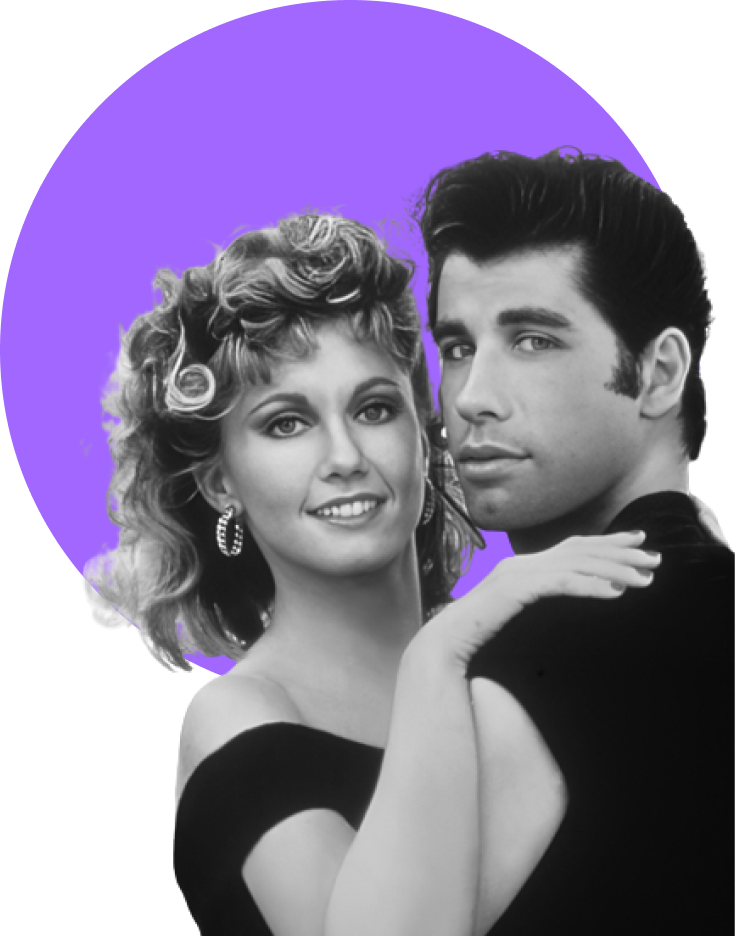
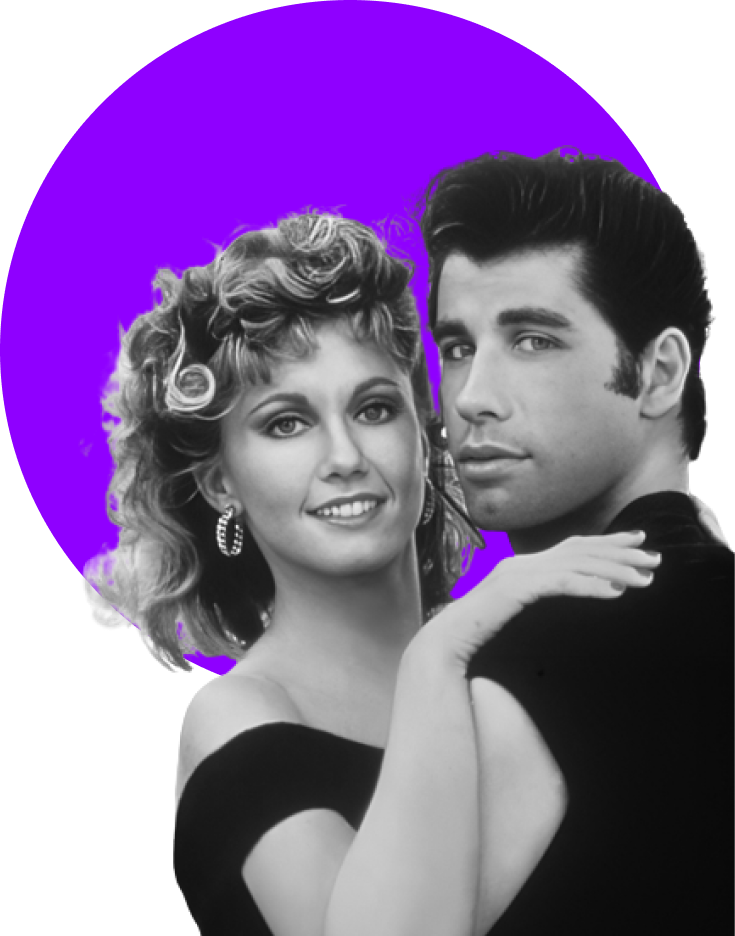
mudancas scroll

Changed region(s): [[0.0, 0.0, 0.898, 0.6197], [0.5986, 0.5577, 0.7184, 0.6506], [0.2395, 0.6506, 0.3293, 0.7436]]

diff --git a/docs/sass/_config.scss b/docs/sass/_config.scss
@@ -75,8 +75,8 @@ $height-option-bar: 100px;
     --text-color-80: #000000cc;
     --link-color: #45CFE1;
 
-    --second-color: #6ba5f2;
-    --second-color-50: #6ba5f280;
+    --second-color: #4925B0;
+    --second-color-50: #4a25b085;
     --third-color: #00109d;
 
     --sect-par-backg-color: #000;
@@ -92,21 +92,20 @@ $height-option-bar: 100px;
 // ===================================================
 // Darkmode
 .darkmode:root {
-    --backg-color: #121111;
+    --backg-color: #000000;
     --text-color: #FEFCF3;
     --text-color-50: #FFFFFF80;
     --text-color-80: #FFFFFFcc;
     
-    --second-color: #A167FF;
-    --second-color-50: #A167FF80;
+    --second-color: #8F00FF;
+    --second-color-50: #9000ff74;
     --third-color: #C6A4FF;
     
     // Formulário - login e cadastro
-    --backg-form: #242424;
-    --backg-camada-2: #121111;
+    --backg-form: #000000;
+    --backg-camada-2: #000000;
 }
 // ===================================================
-
 
 
 // ===================================================

diff --git a/docs/css/home.css b/docs/css/home.css
@@ -45,8 +45,8 @@
   --text-color-50: #00000080;
   --text-color-80: #000000cc;
   --link-color: #45CFE1;
-  --second-color: #6ba5f2;
-  --second-color-50: #6ba5f280;
+  --second-color: #4925B0;
+  --second-color-50: #4a25b085;
   --third-color: #00109d;
   --sect-par-backg-color: #000;
   --sect-par-text-color: #fff;
@@ -56,15 +56,15 @@
 }
 
 .darkmode:root {
-  --backg-color: #121111;
+  --backg-color: #000000;
   --text-color: #FEFCF3;
   --text-color-50: #FFFFFF80;
   --text-color-80: #FFFFFFcc;
-  --second-color: #A167FF;
-  --second-color-50: #A167FF80;
+  --second-color: #8F00FF;
+  --second-color-50: #9000ff74;
   --third-color: #C6A4FF;
-  --backg-form: #242424;
-  --backg-camada-2: #121111;
+  --backg-form: #000000;
+  --backg-camada-2: #000000;
 }
 
 section {
@@ -88,6 +88,9 @@ section.section1 .sandy-danny {
   bottom: 0;
   right: 0;
   z-index: -1;
+}
+section.section1 #SandyDanny.scrollHide {
+  opacity: 0;
 }
 section.section2 {
   min-height: 820px;

diff --git a/docs/css/box-content.css b/docs/css/box-content.css
@@ -45,8 +45,8 @@
   --text-color-50: #00000080;
   --text-color-80: #000000cc;
   --link-color: #45CFE1;
-  --second-color: #6ba5f2;
-  --second-color-50: #6ba5f280;
+  --second-color: #4925B0;
+  --second-color-50: #4a25b085;
   --third-color: #00109d;
   --sect-par-backg-color: #000;
   --sect-par-text-color: #fff;
@@ -56,15 +56,15 @@
 }
 
 .darkmode:root {
-  --backg-color: #121111;
+  --backg-color: #000000;
   --text-color: #FEFCF3;
   --text-color-50: #FFFFFF80;
   --text-color-80: #FFFFFFcc;
-  --second-color: #A167FF;
-  --second-color-50: #A167FF80;
+  --second-color: #8F00FF;
+  --second-color-50: #9000ff74;
   --third-color: #C6A4FF;
-  --backg-form: #242424;
-  --backg-camada-2: #121111;
+  --backg-form: #000000;
+  --backg-camada-2: #000000;
 }
 
 .wrapper-content-main .padding {

diff --git a/docs/css/form.css b/docs/css/form.css
@@ -45,8 +45,8 @@
   --text-color-50: #00000080;
   --text-color-80: #000000cc;
   --link-color: #45CFE1;
-  --second-color: #6ba5f2;
-  --second-color-50: #6ba5f280;
+  --second-color: #4925B0;
+  --second-color-50: #4a25b085;
   --third-color: #00109d;
   --sect-par-backg-color: #000;
   --sect-par-text-color: #fff;
@@ -56,15 +56,15 @@
 }
 
 .darkmode:root {
-  --backg-color: #121111;
+  --backg-color: #000000;
   --text-color: #FEFCF3;
   --text-color-50: #FFFFFF80;
   --text-color-80: #FFFFFFcc;
-  --second-color: #A167FF;
-  --second-color-50: #A167FF80;
+  --second-color: #8F00FF;
+  --second-color-50: #9000ff74;
   --third-color: #C6A4FF;
-  --backg-form: #242424;
-  --backg-camada-2: #121111;
+  --backg-form: #000000;
+  --backg-camada-2: #000000;
 }
 
 /* DIV - ESQUERDA */

diff --git a/docs/css/carrossel.css b/docs/css/carrossel.css
@@ -46,8 +46,8 @@
   --text-color-50: #00000080;
   --text-color-80: #000000cc;
   --link-color: #45CFE1;
-  --second-color: #6ba5f2;
-  --second-color-50: #6ba5f280;
+  --second-color: #4925B0;
+  --second-color-50: #4a25b085;
   --third-color: #00109d;
   --sect-par-backg-color: #000;
   --sect-par-text-color: #fff;
@@ -57,15 +57,15 @@
 }
 
 .darkmode:root {
-  --backg-color: #121111;
+  --backg-color: #000000;
   --text-color: #FEFCF3;
   --text-color-50: #FFFFFF80;
   --text-color-80: #FFFFFFcc;
-  --second-color: #A167FF;
-  --second-color-50: #A167FF80;
+  --second-color: #8F00FF;
+  --second-color-50: #9000ff74;
   --third-color: #C6A4FF;
-  --backg-form: #242424;
-  --backg-camada-2: #121111;
+  --backg-form: #000000;
+  --backg-camada-2: #000000;
 }
 
 .carrossel-musica {

diff --git a/docs/css/navbar.css b/docs/css/navbar.css
@@ -45,8 +45,8 @@
   --text-color-50: #00000080;
   --text-color-80: #000000cc;
   --link-color: #45CFE1;
-  --second-color: #6ba5f2;
-  --second-color-50: #6ba5f280;
+  --second-color: #4925B0;
+  --second-color-50: #4a25b085;
   --third-color: #00109d;
   --sect-par-backg-color: #000;
   --sect-par-text-color: #fff;
@@ -56,15 +56,15 @@
 }
 
 .darkmode:root {
-  --backg-color: #121111;
+  --backg-color: #000000;
   --text-color: #FEFCF3;
   --text-color-50: #FFFFFF80;
   --text-color-80: #FFFFFFcc;
-  --second-color: #A167FF;
-  --second-color-50: #A167FF80;
+  --second-color: #8F00FF;
+  --second-color-50: #9000ff74;
   --third-color: #C6A4FF;
-  --backg-form: #242424;
-  --backg-camada-2: #121111;
+  --backg-form: #000000;
+  --backg-camada-2: #000000;
 }
 
 .itens-direita {

diff --git a/docs/css/music-player.css b/docs/css/music-player.css
@@ -45,8 +45,8 @@
   --text-color-50: #00000080;
   --text-color-80: #000000cc;
   --link-color: #45CFE1;
-  --second-color: #6ba5f2;
-  --second-color-50: #6ba5f280;
+  --second-color: #4925B0;
+  --second-color-50: #4a25b085;
   --third-color: #00109d;
   --sect-par-backg-color: #000;
   --sect-par-text-color: #fff;
@@ -56,15 +56,15 @@
 }
 
 .darkmode:root {
-  --backg-color: #121111;
+  --backg-color: #000000;
   --text-color: #FEFCF3;
   --text-color-50: #FFFFFF80;
   --text-color-80: #FFFFFFcc;
-  --second-color: #A167FF;
-  --second-color-50: #A167FF80;
+  --second-color: #8F00FF;
+  --second-color-50: #9000ff74;
   --third-color: #C6A4FF;
-  --backg-form: #242424;
-  --backg-camada-2: #121111;
+  --backg-form: #000000;
+  --backg-camada-2: #000000;
 }
 
 .music-player {

diff --git a/docs/css/base.css b/docs/css/base.css
@@ -46,8 +46,8 @@
   --text-color-50: #00000080;
   --text-color-80: #000000cc;
   --link-color: #45CFE1;
-  --second-color: #6ba5f2;
-  --second-color-50: #6ba5f280;
+  --second-color: #4925B0;
+  --second-color-50: #4a25b085;
   --third-color: #00109d;
   --sect-par-backg-color: #000;
   --sect-par-text-color: #fff;
@@ -57,15 +57,15 @@
 }
 
 .darkmode:root {
-  --backg-color: #121111;
+  --backg-color: #000000;
   --text-color: #FEFCF3;
   --text-color-50: #FFFFFF80;
   --text-color-80: #FFFFFFcc;
-  --second-color: #A167FF;
-  --second-color-50: #A167FF80;
+  --second-color: #8F00FF;
+  --second-color-50: #9000ff74;
   --third-color: #C6A4FF;
-  --backg-form: #242424;
-  --backg-camada-2: #121111;
+  --backg-form: #000000;
+  --backg-camada-2: #000000;
 }
 
 * {

diff --git a/docs/js/scrolling.js b/docs/js/scrolling.js
@@ -1,0 +1,14 @@
+const SandyDanny = document.getElementById('SandyDanny')
+const SandyDannyClassList = SandyDanny.classList
+window.addEventListener('scroll', () => {
+    console.log(window.screen.height)
+  if (window.scrollY >= window.screen.height - 450) {
+    if (!SandyDannyClassList.contains('scrollHide')) {
+        SandyDannyClassList.add('scrollHide')
+    }
+  } else {
+    if (SandyDannyClassList.contains('scrollHide')) {
+        SandyDannyClassList.remove('scrollHide')
+    }
+  }
+})

diff --git a/docs/sass/home.scss b/docs/sass/home.scss
@@ -30,6 +30,9 @@ section {
             right: 0;
             z-index: -1;
         }
+        #SandyDanny.scrollHide {
+            opacity: 0;
+          }
     }
 
     &.section2 {

diff --git a/docs/index.php b/docs/index.php
@@ -121,7 +121,7 @@ include('php/verify_darkmode.php');
                 </div> <!-- .wrapper-content-main -->
             </div> <!-- .wh100 .flex-collumn -->
 
-            <img src="imgs/home/sandy-danny-light.png" alt="Sanddy e Danny - Grease" class="sandy-danny" data-aos="fade-up">
+            <img src="imgs/home/sandy-danny-light.png" alt="Sanddy e Danny - Grease" class="sandy-danny" id="SandyDanny" data-aos="fade-up">
 
         </section> <!-- .section-impar -->
 
@@ -531,6 +531,9 @@ include('php/verify_darkmode.php');
 
     <!-- Import Splide -->
     <script src="splide/js/splide.min.js"></script>
+
+    <!-- Scroll Home -->
+    <script src="js/scrolling.js"></script>
 </body>
 
 </html>
